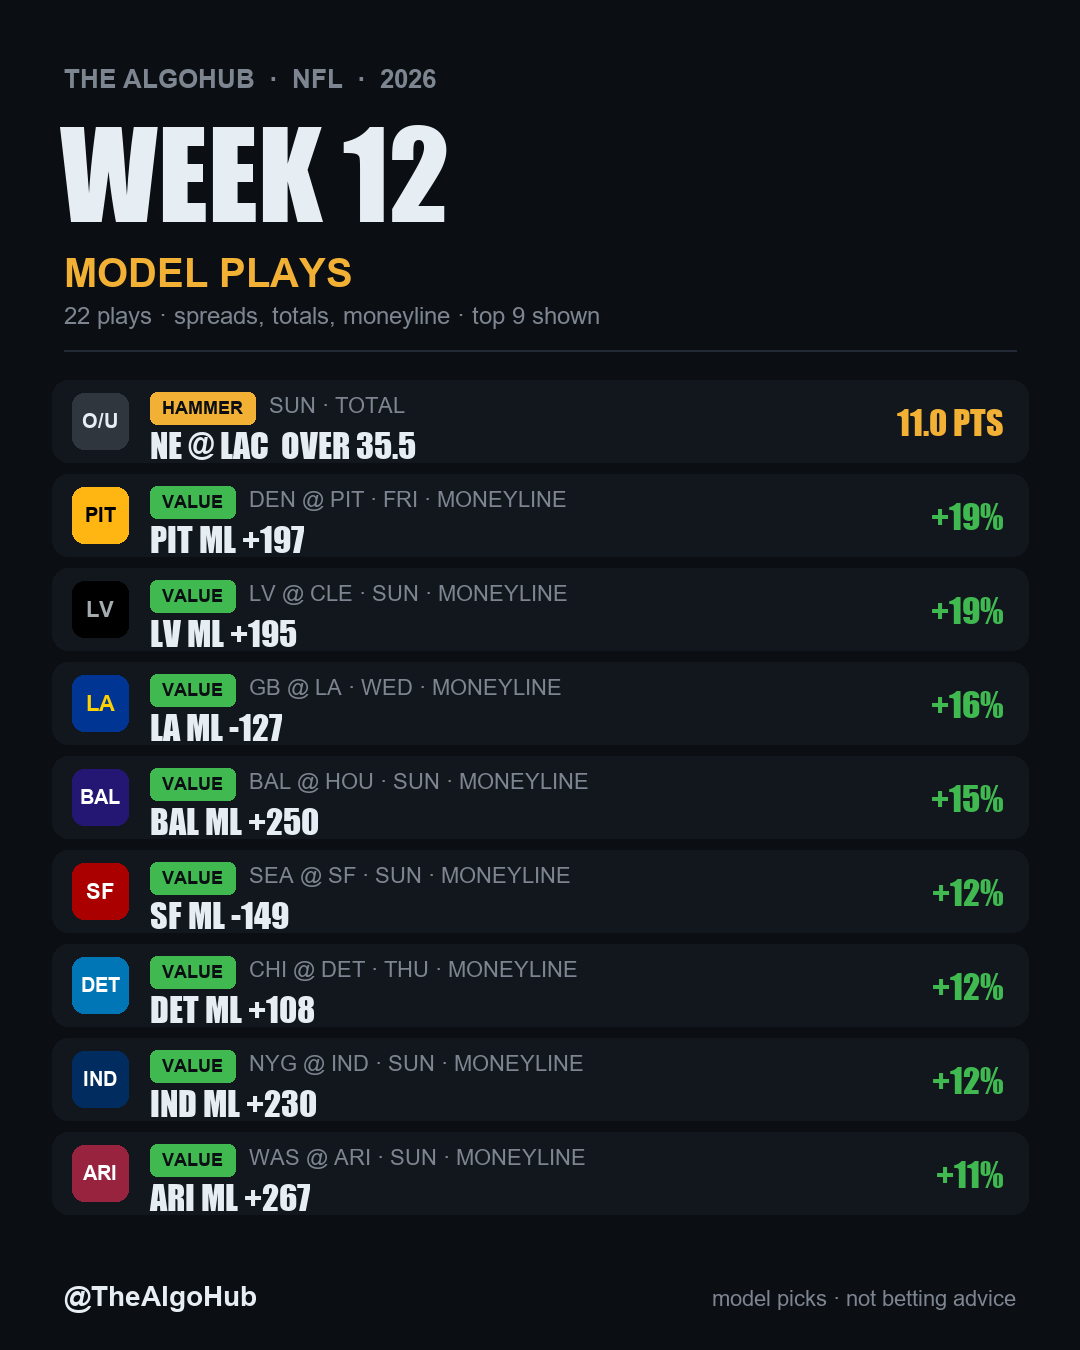
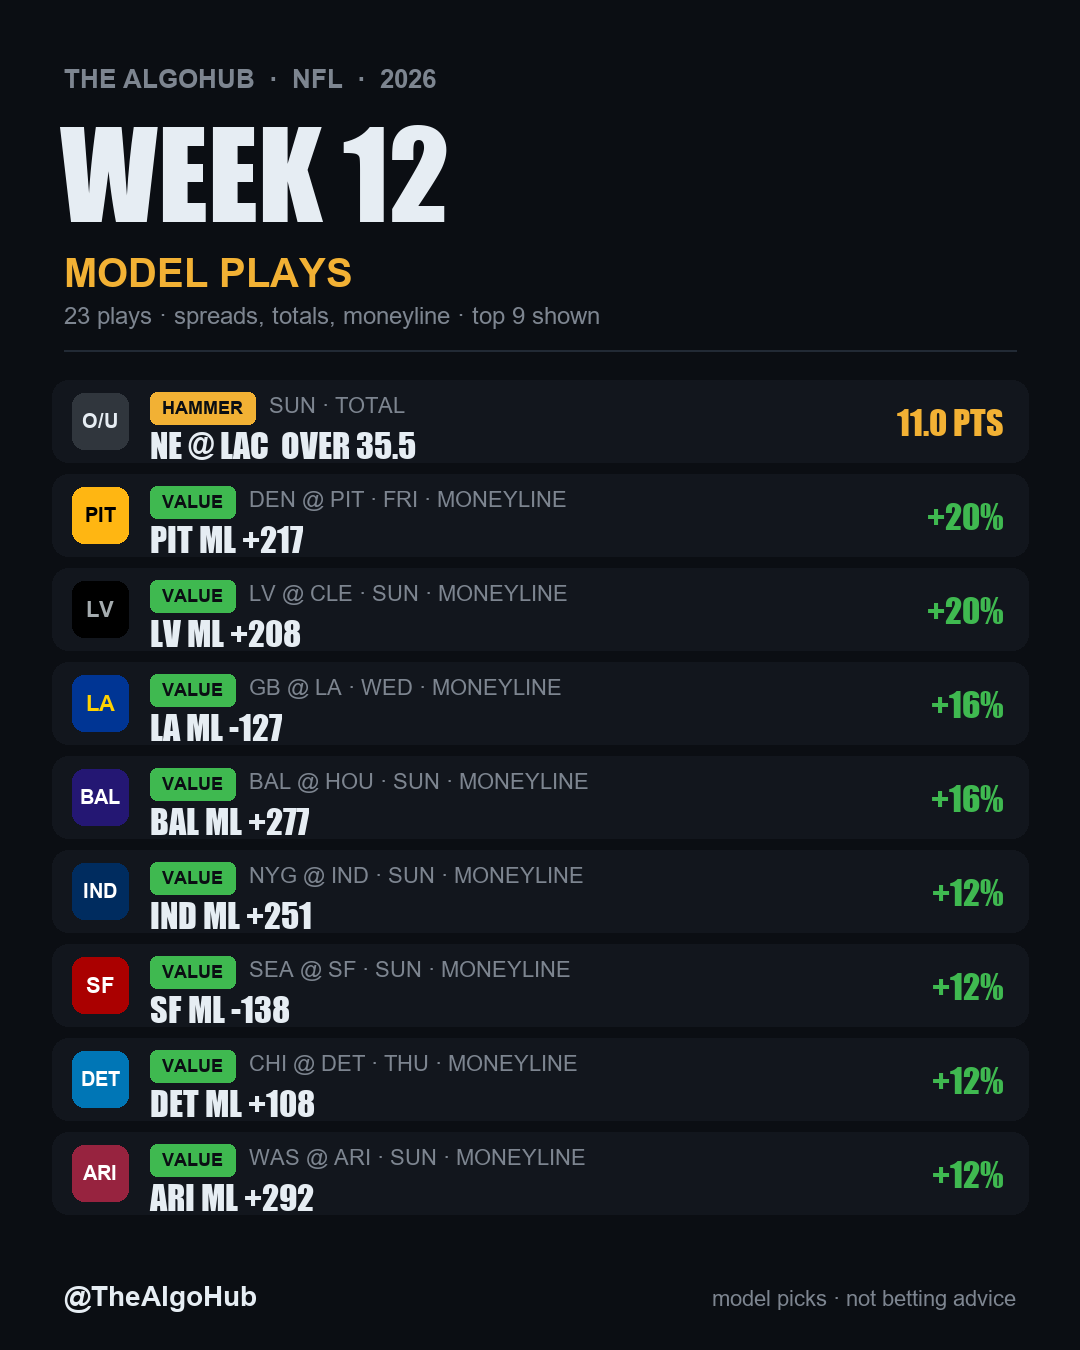
auto: week 12 Fri 10:04

diff --git a/cards/2026_wk12.html b/cards/2026_wk12.html
@@ -1636,13 +1636,13 @@ background:#0f1319;color:var(--tx);padding:13px 16px;font:700 11px Inter,system-
       <div class="mkt">
         <div class="mlabel">TOTAL</div>
         <div class="cols">
-          <div><small>VEGAS</small><span>37</span></div>
+          <div><small>VEGAS</small><span>36.5</span></div>
           <div><small>MODEL</small><span>38.6</span></div>
-          <div class="edge "><small>EDGE</small><span>1.6</span></div>
+          <div class="edge "><small>EDGE</small><span>2.1</span></div>
         </div>
         <div class="pick none">NO PLAY</div>
       </div>
-      <div class="ml">ML VALUE <b>PIT +197</b><span>+19.4% vs no-vig</span></div>
+      <div class="ml">ML VALUE <b>PIT +217</b><span>+20.4% vs no-vig</span></div>
       <div class="strip"><div class="mlabel">EPA MATCHUP <em>(+ = offense edge)</em></div>
           <div class="srow"><span class="slab">DEN PASS O <em>vs</em> PIT D</span>
             <span class="sbar"><i class="neg" style="width:3.4%"></i></span>
@@ -1656,7 +1656,7 @@ background:#0f1319;color:var(--tx);padding:13px 16px;font:700 11px Inter,system-
           <div class="srow"><span class="slab">PIT RUSH O <em>vs</em> DEN D</span>
             <span class="sbar"><i class="pos" style="width:24.0%"></i></span>
             <span class="sval pos">+0.14</span></div><div class="mlabel dlab">DEFENSE <em>(man/shell/pressure 2025 · blitz 2026)</em></div><div class="dline"><b>DEN D</b><span>MAN 44% · C1 · PRESS 34% · BLITZ 34%</span></div><div class="dline"><b>PIT D</b><span>MAN 36% · C3 · PRESS 29% · BLITZ 28%</span></div></div>
-      <div class="chips"><span class="chip">DEN SHORT WEEK</span><span class="chip">PIT SHORT WEEK</span><span class="chip">38°F · 12 MPH · RAIN 60%</span><span class="chip inj">OUT: Jk Dobbins</span><span class="chip inj">PIT QB? Aaron Rodgers DNP</span></div>
+      <div class="chips"><span class="chip">DEN SHORT WEEK</span><span class="chip">PIT SHORT WEEK</span><span class="chip">38°F · 12 MPH</span><span class="chip inj">OUT: Jk Dobbins</span><span class="chip inj">PIT QB? Aaron Rodgers DNP</span></div>
       
       <button class="ptoggle" aria-expanded="false">PLAYER PROPS · 72 <em>6 PLAYS</em><span class="car">▾</span></button>
       <div class="props" hidden>
@@ -2051,9 +2051,9 @@ background:#0f1319;color:var(--tx);padding:13px 16px;font:700 11px Inter,system-
       <div class="mkt">
         <div class="mlabel">SPREAD</div>
         <div class="cols">
-          <div><small>VEGAS</small><span>MIN -7.0</span></div>
+          <div><small>VEGAS</small><span>MIN -6.5</span></div>
           <div><small>MODEL</small><span>MIN -6.2</span></div>
-          <div class="edge "><small>EDGE</small><span>0.8</span></div>
+          <div class="edge "><small>EDGE</small><span>0.3</span></div>
         </div>
         <div class="pick none">NO PLAY</div>
       </div>
@@ -2067,7 +2067,7 @@ background:#0f1319;color:var(--tx);padding:13px 16px;font:700 11px Inter,system-
         </div>
         <div class="pick t-lean"><span class="tier">LEAN</span>OVER 41.5</div>
       </div>
-      <div class="ml">ML VALUE <b>ATL +260</b><span>+5.6% vs no-vig</span></div>
+      <div class="ml">ML VALUE <b>ATL +285</b><span>+6.4% vs no-vig</span></div>
       <div class="strip"><div class="mlabel">EPA MATCHUP <em>(+ = offense edge)</em></div>
           <div class="srow"><span class="slab">ATL PASS O <em>vs</em> MIN D</span>
             <span class="sbar"><i class="neg" style="width:37.4%"></i></span>
@@ -2147,13 +2147,13 @@ background:#0f1319;color:var(--tx);padding:13px 16px;font:700 11px Inter,system-
       <div class="mkt">
         <div class="mlabel">TOTAL</div>
         <div class="cols">
-          <div><small>VEGAS</small><span>47</span></div>
+          <div><small>VEGAS</small><span>47.5</span></div>
           <div><small>MODEL</small><span>50.1</span></div>
-          <div class="edge "><small>EDGE</small><span>3.1</span></div>
+          <div class="edge "><small>EDGE</small><span>2.6</span></div>
         </div>
         <div class="pick none">NO PLAY</div>
       </div>
-      <div class="ml">ML VALUE <b>BAL +250</b><span>+14.7% vs no-vig</span></div>
+      <div class="ml">ML VALUE <b>BAL +277</b><span>+15.7% vs no-vig</span></div>
       <div class="strip"><div class="mlabel">EPA MATCHUP <em>(+ = offense edge)</em></div>
           <div class="srow"><span class="slab">BAL PASS O <em>vs</em> HOU D</span>
             <span class="sbar"><i class="neg" style="width:5.7%"></i></span>
@@ -2278,9 +2278,9 @@ background:#0f1319;color:var(--tx);padding:13px 16px;font:700 11px Inter,system-
       <div class="mkt">
         <div class="mlabel">SPREAD</div>
         <div class="cols">
-          <div><small>VEGAS</small><span>CIN -10.0</span></div>
+          <div><small>VEGAS</small><span>CIN -9.5</span></div>
           <div><small>MODEL</small><span>CIN -12.5</span></div>
-          <div class="edge "><small>EDGE</small><span>2.5</span></div>
+          <div class="edge "><small>EDGE</small><span>3.0</span></div>
         </div>
         <div class="pick none">NO PLAY</div>
       </div>
@@ -2288,9 +2288,9 @@ background:#0f1319;color:var(--tx);padding:13px 16px;font:700 11px Inter,system-
       <div class="mkt">
         <div class="mlabel">TOTAL</div>
         <div class="cols">
-          <div><small>VEGAS</small><span>49.25</span></div>
+          <div><small>VEGAS</small><span>49.5</span></div>
           <div><small>MODEL</small><span>46.7</span></div>
-          <div class="edge "><small>EDGE</small><span>2.6</span></div>
+          <div class="edge "><small>EDGE</small><span>2.8</span></div>
         </div>
         <div class="pick none">NO PLAY</div>
       </div>
@@ -2308,7 +2308,7 @@ background:#0f1319;color:var(--tx);padding:13px 16px;font:700 11px Inter,system-
           <div class="srow"><span class="slab">CIN RUSH O <em>vs</em> NO D</span>
             <span class="sbar"><i class="pos" style="width:7.1%"></i></span>
             <span class="sval pos">+0.04</span></div><div class="mlabel dlab">DEFENSE <em>(man/shell/pressure 2025 · blitz 2026)</em></div><div class="dline"><b>NO D</b><span>MAN 22% · C3 · PRESS 28% · BLITZ 37%</span></div><div class="dline"><b>CIN D</b><span>MAN 36% · C3 · PRESS 30% · BLITZ 17%</span></div></div>
-      <div class="chips"><span class="chip">52°F · 10 MPH · RAIN 97%</span></div>
+      <div class="chips"><span class="chip">52°F · 10 MPH · RAIN 100%</span></div>
       
       <button class="ptoggle" aria-expanded="false">PLAYER PROPS · 10<span class="car">▾</span></button>
       <div class="props" hidden>
@@ -2389,9 +2389,9 @@ background:#0f1319;color:var(--tx);padding:13px 16px;font:700 11px Inter,system-
       <div class="mkt">
         <div class="mlabel">SPREAD</div>
         <div class="cols">
-          <div><small>VEGAS</small><span>NYG -6.0</span></div>
+          <div><small>VEGAS</small><span>NYG -5.5</span></div>
           <div><small>MODEL</small><span>NYG -3.2</span></div>
-          <div class="edge "><small>EDGE</small><span>2.8</span></div>
+          <div class="edge "><small>EDGE</small><span>2.3</span></div>
         </div>
         <div class="pick none">NO PLAY</div>
       </div>
@@ -2405,7 +2405,7 @@ background:#0f1319;color:var(--tx);padding:13px 16px;font:700 11px Inter,system-
         </div>
         <div class="pick t-lean"><span class="tier">LEAN</span>OVER 41.5</div>
       </div>
-      <div class="ml">ML VALUE <b>IND +230</b><span>+11.5% vs no-vig</span></div>
+      <div class="ml">ML VALUE <b>IND +251</b><span>+12.5% vs no-vig</span></div>
       <div class="strip"><div class="mlabel">EPA MATCHUP <em>(+ = offense edge)</em></div>
           <div class="srow"><span class="slab">NYG PASS O <em>vs</em> IND D</span>
             <span class="sbar"><i class="pos" style="width:3.8%"></i></span>
@@ -2505,9 +2505,9 @@ background:#0f1319;color:var(--tx);padding:13px 16px;font:700 11px Inter,system-
       <div class="mkt">
         <div class="mlabel">TOTAL</div>
         <div class="cols">
-          <div><small>VEGAS</small><span>40</span></div>
+          <div><small>VEGAS</small><span>39.5</span></div>
           <div><small>MODEL</small><span>40.0</span></div>
-          <div class="edge "><small>EDGE</small><span>0.0</span></div>
+          <div class="edge "><small>EDGE</small><span>0.5</span></div>
         </div>
         <div class="pick none">NO PLAY</div>
       </div>
@@ -2621,13 +2621,13 @@ background:#0f1319;color:var(--tx);padding:13px 16px;font:700 11px Inter,system-
       <div class="mkt">
         <div class="mlabel">TOTAL</div>
         <div class="cols">
-          <div><small>VEGAS</small><span>49</span></div>
+          <div><small>VEGAS</small><span>48.5</span></div>
           <div><small>MODEL</small><span>49.0</span></div>
-          <div class="edge "><small>EDGE</small><span>0.0</span></div>
+          <div class="edge "><small>EDGE</small><span>0.5</span></div>
         </div>
         <div class="pick none">NO PLAY</div>
       </div>
-      
+      <div class="ml">ML VALUE <b>TEN +809</b><span>+4.6% vs no-vig</span></div>
       <div class="strip"><div class="mlabel">EPA MATCHUP <em>(+ = offense edge)</em></div>
           <div class="srow"><span class="slab">TEN PASS O <em>vs</em> JAX D</span>
             <span class="sbar"><i class="neg" style="width:31.1%"></i></span>
@@ -2792,9 +2792,9 @@ background:#0f1319;color:var(--tx);padding:13px 16px;font:700 11px Inter,system-
       <div class="mkt">
         <div class="mlabel">SPREAD</div>
         <div class="cols">
-          <div><small>VEGAS</small><span>NE -2.0</span></div>
+          <div><small>VEGAS</small><span>NE -2.5</span></div>
           <div><small>MODEL</small><span>NE -3.5</span></div>
-          <div class="edge "><small>EDGE</small><span>1.5</span></div>
+          <div class="edge "><small>EDGE</small><span>1.0</span></div>
         </div>
         <div class="pick none">NO PLAY</div>
       </div>
@@ -2808,7 +2808,7 @@ background:#0f1319;color:var(--tx);padding:13px 16px;font:700 11px Inter,system-
         </div>
         <div class="pick t-hammer"><span class="tier">HAMMER</span>OVER 35.5</div>
       </div>
-      <div class="ml">ML VALUE <b>NE -135</b><span>+4.9% vs no-vig</span></div>
+      <div class="ml">ML VALUE <b>NE -120</b><span>+6.0% vs no-vig</span></div>
       <div class="strip"><div class="mlabel">EPA MATCHUP <em>(+ = offense edge)</em></div>
           <div class="srow"><span class="slab">NE PASS O <em>vs</em> LAC D</span>
             <span class="sbar"><i class="pos" style="width:10.3%"></i></span>
@@ -2858,11 +2858,11 @@ background:#0f1319;color:var(--tx);padding:13px 16px;font:700 11px Inter,system-
       <div class="mkt">
         <div class="mlabel">SPREAD</div>
         <div class="cols">
-          <div><small>VEGAS</small><span>SF -3.0</span></div>
+          <div><small>VEGAS</small><span>SF -2.5</span></div>
           <div><small>MODEL</small><span>SF -6.9</span></div>
-          <div class="edge hot"><small>EDGE</small><span>3.9</span></div>
+          <div class="edge hot"><small>EDGE</small><span>4.4</span></div>
         </div>
-        <div class="pick t-lean"><span class="tier">LEAN</span>SF -3.0</div>
+        <div class="pick t-lean"><span class="tier">LEAN</span>SF -2.5</div>
       </div>
       
       <div class="mkt">
@@ -2874,7 +2874,7 @@ background:#0f1319;color:var(--tx);padding:13px 16px;font:700 11px Inter,system-
         </div>
         <div class="pick none">NO PLAY</div>
       </div>
-      <div class="ml">ML VALUE <b>SF -149</b><span>+12.1% vs no-vig</span></div>
+      <div class="ml">ML VALUE <b>SF -138</b><span>+12.2% vs no-vig</span></div>
       <div class="strip"><div class="mlabel">EPA MATCHUP <em>(+ = offense edge)</em></div>
           <div class="srow"><span class="slab">SEA PASS O <em>vs</em> SF D</span>
             <span class="sbar"><i class="pos" style="width:0.8%"></i></span>
@@ -2888,7 +2888,7 @@ background:#0f1319;color:var(--tx);padding:13px 16px;font:700 11px Inter,system-
           <div class="srow"><span class="slab">SF RUSH O <em>vs</em> SEA D</span>
             <span class="sbar"><i class="pos" style="width:16.1%"></i></span>
             <span class="sval pos">+0.10</span></div><div class="mlabel dlab">DEFENSE <em>(man/shell/pressure 2025 · blitz 2026)</em></div><div class="dline"><b>SEA D</b><span>MAN 29% · C2 · PRESS 32% · BLITZ 24%</span></div><div class="dline"><b>SF D</b><span>MAN 25% · C3 · PRESS 23% · BLITZ 29%</span></div></div>
-      <div class="chips"><span class="chip">SEA OFF BYE</span><span class="chip">64°F · 9 MPH · RAIN 69%</span><span class="chip">DIVISION</span><span class="chip inj">OUT: George Holani</span><span class="chip inj">SF QB? Brock Purdy DNP</span></div>
+      <div class="chips"><span class="chip">SEA OFF BYE</span><span class="chip">64°F · 9 MPH · RAIN 61%</span><span class="chip">DIVISION</span><span class="chip inj">OUT: George Holani</span><span class="chip inj">SF QB? Brock Purdy DNP</span></div>
       
       <button class="ptoggle" aria-expanded="false">PLAYER PROPS · 60 <em>1 PLAY</em><span class="car">▾</span></button>
       <div class="props" hidden>
@@ -3235,7 +3235,7 @@ background:#0f1319;color:var(--tx);padding:13px 16px;font:700 11px Inter,system-
         </div>
         <div class="pick t-lean"><span class="tier">LEAN</span>OVER 41.5</div>
       </div>
-      <div class="ml">ML VALUE <b>ARI +267</b><span>+10.7% vs no-vig</span></div>
+      <div class="ml">ML VALUE <b>ARI +292</b><span>+11.5% vs no-vig</span></div>
       <div class="strip"><div class="mlabel">EPA MATCHUP <em>(+ = offense edge)</em></div>
           <div class="srow"><span class="slab">WAS PASS O <em>vs</em> ARI D</span>
             <span class="sbar"><i class="pos" style="width:22.6%"></i></span>
@@ -3405,13 +3405,13 @@ background:#0f1319;color:var(--tx);padding:13px 16px;font:700 11px Inter,system-
       <div class="mkt">
         <div class="mlabel">TOTAL</div>
         <div class="cols">
-          <div><small>VEGAS</small><span>40</span></div>
+          <div><small>VEGAS</small><span>39.5</span></div>
           <div><small>MODEL</small><span>44.8</span></div>
-          <div class="edge hot"><small>EDGE</small><span>4.8</span></div>
+          <div class="edge hot"><small>EDGE</small><span>5.3</span></div>
         </div>
-        <div class="pick t-lean"><span class="tier">LEAN</span>OVER 40</div>
+        <div class="pick t-play"><span class="tier">PLAY</span>OVER 39.5</div>
       </div>
-      <div class="ml">ML VALUE <b>LV +195</b><span>+19.2% vs no-vig</span></div>
+      <div class="ml">ML VALUE <b>LV +208</b><span>+19.5% vs no-vig</span></div>
       <div class="strip"><div class="mlabel">EPA MATCHUP <em>(+ = offense edge)</em></div>
           <div class="srow"><span class="slab">LV PASS O <em>vs</em> CLE D</span>
             <span class="sbar"><i class="pos" style="width:0.2%"></i></span>
@@ -3425,7 +3425,7 @@ background:#0f1319;color:var(--tx);padding:13px 16px;font:700 11px Inter,system-
           <div class="srow"><span class="slab">CLE RUSH O <em>vs</em> LV D</span>
             <span class="sbar"><i class="pos" style="width:3.4%"></i></span>
             <span class="sval pos">+0.02</span></div><div class="mlabel dlab">DEFENSE <em>(man/shell/pressure 2025 · blitz 2026)</em></div><div class="dline"><b>LV D</b><span>MAN 20% · C3 · PRESS 27% · BLITZ 29%</span></div><div class="dline"><b>CLE D</b><span>MAN 41% · C1 · PRESS 35% · BLITZ 27%</span></div></div>
-      <div class="chips"><span class="chip">CLE OFF BYE</span><span class="chip">49°F · 7 MPH · RAIN 99%</span><span class="chip">LV CROSS-COUNTRY</span><span class="chip inj">OUT: Raheim Sanders</span></div>
+      <div class="chips"><span class="chip">CLE OFF BYE</span><span class="chip">49°F · 7 MPH · RAIN 100%</span><span class="chip">LV CROSS-COUNTRY</span><span class="chip inj">OUT: Raheim Sanders</span></div>
       
       <button class="ptoggle" aria-expanded="false">PLAYER PROPS · 23<span class="car">▾</span></button>
       <div class="props" hidden>
@@ -3575,9 +3575,9 @@ background:#0f1319;color:var(--tx);padding:13px 16px;font:700 11px Inter,system-
       <div class="mkt">
         <div class="mlabel">SPREAD</div>
         <div class="cols">
-          <div><small>VEGAS</small><span>TB -3.0</span></div>
+          <div><small>VEGAS</small><span>TB -3.5</span></div>
           <div><small>MODEL</small><span>TB -3.0</span></div>
-          <div class="edge "><small>EDGE</small><span>0.0</span></div>
+          <div class="edge "><small>EDGE</small><span>0.5</span></div>
         </div>
         <div class="pick none">NO PLAY</div>
       </div>
